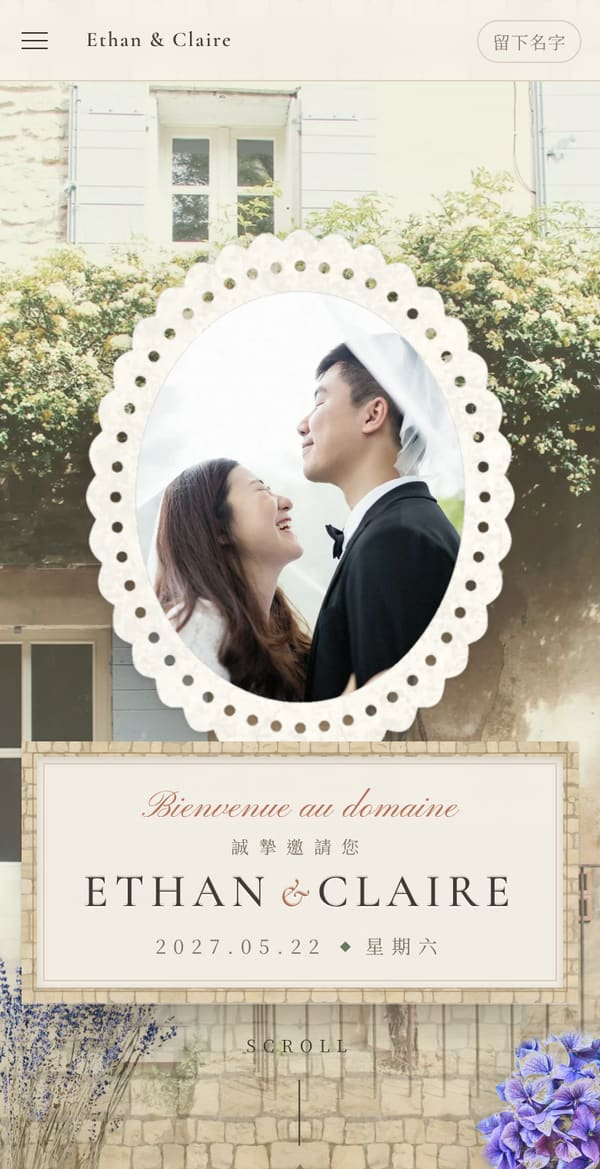
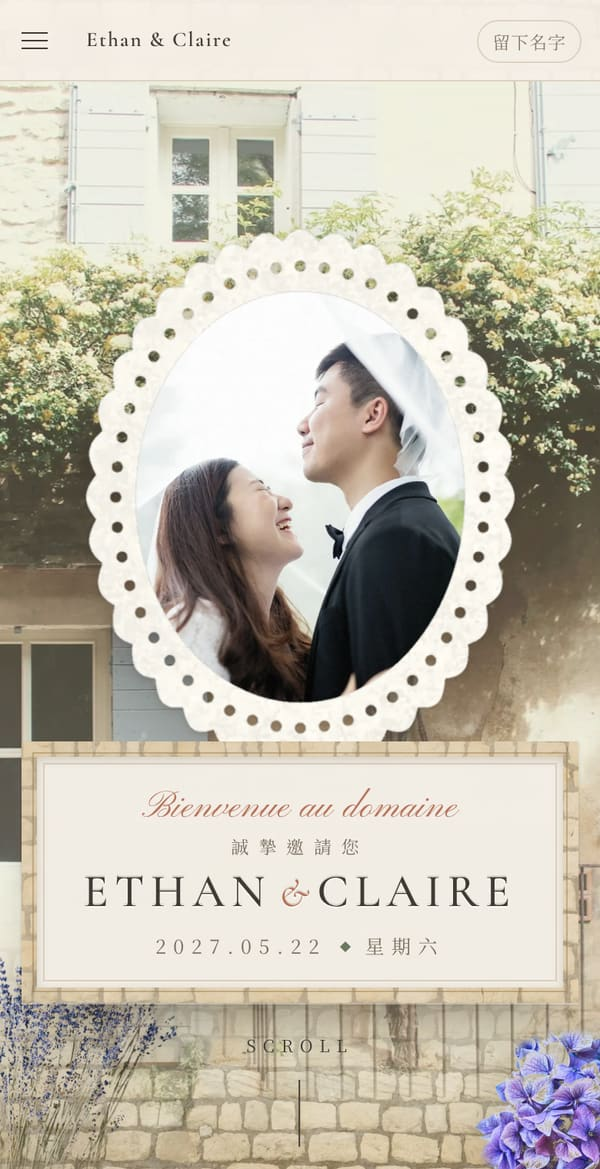
法式莊園：石牆改成沒有對稱接縫的無縫平鋪
鏡射平鋪在桌機上看得到對稱線，改成錯位半張再淡淡混合；
鋪排尺寸跟著調整，石塊大小維持不變。

Claude-Session: https://claude.ai/code/session_01WAMHDvEXzDVD9sEfoDVAdb

diff --git a/public/css/lobby-manor.css b/public/css/lobby-manor.css
@@ -31,9 +31,9 @@ body[data-lobby="french-manor"]{
     linear-gradient(rgba(240,228,204,.55),rgba(240,228,204,.55)) border-box,
     url(../img/manor/wall.webp) 40% 30%/520px auto border-box;
 }
-/* 頁面：一整面蜂蜜色的小石塊砌成的石灰岩牆（真的照片，左右上下鏡射成可以無縫平鋪的一塊），淡淡壓一層溫白 */
-body[data-lobby="french-manor"] .bg-decor{background:#d9c6a2 url(../img/manor/wall.webp) center/1500px auto repeat;}
-@media (max-width:640px){body[data-lobby="french-manor"] .bg-decor{background-size:1000px auto;}}
+/* 頁面：一整面蜂蜜色的小石塊砌成的石灰岩牆（真的照片，錯位半張再淡淡混合，做成可以無縫平鋪的一塊），淡淡壓一層溫白 */
+body[data-lobby="french-manor"] .bg-decor{background:#d9c6a2 url(../img/manor/wall.webp) center/780px auto repeat;}
+@media (max-width:640px){body[data-lobby="french-manor"] .bg-decor{background-size:520px auto;}}
 body[data-lobby="french-manor"] .bg-decor::after{content:'';position:absolute;inset:0;background:rgba(246,240,228,.28);}
 .fm-lobby{position:relative;}
 

diff --git a/README.md b/README.md
@@ -326,7 +326,7 @@ HTML 裡直接寫 `{{couple}}`、`{{date}}`、`{{hashtag}}` 這類 token，
 > | `manor/courtyard.webp` | 大廳 hero 的中庭、開場門後看到的那一片 | [灰藍百葉窗與一棵開花的樹](https://unsplash.com/photos/QAFgjcZz-fI)・Camille La Brequa | 縮圖、稍微調亮、降一點彩度 |
 > | `manor/arch-door.webp` | 「我們的故事」的背景 | [灰泥牆上的石拱門與壁燈](https://unsplash.com/photos/UpfOIuFOelI)・Lea Gindorf | 縮圖 |
 > | `manor/cottage.webp` | 倒數的背景 | [開滿玫瑰、有百葉窗的石屋](https://unsplash.com/photos/qs6RGMBaetQ)・Erwan Hesry | 縮圖、調亮、降一點彩度 |
-> | `manor/wall.webp` | 整頁的底：蜂蜜色的小石塊石灰岩牆、灰泥面板與窗的石框 | [小石塊砌成的石牆](https://unsplash.com/photos/ntNwMS0fWGk)・Angelo Casto | 顏色對齊 mood board 的石牆（每個色板的平均與對比）；縮小後左右上下鏡射成可以無縫平鋪的一塊 |
+> | `manor/wall.webp` | 整頁的底：蜂蜜色的小石塊石灰岩牆、灰泥面板與窗的石框 | [小石塊砌成的石牆](https://unsplash.com/photos/ntNwMS0fWGk)・Angelo Casto | 顏色對齊 mood board 的石牆（每個色板的平均與對比）；錯位半張再淡淡混合，做成可以無縫平鋪的一塊 |
 > | `manor/floor.webp` | 頁尾牆腳的地磚 | [手工赤陶與米白的方磚](https://unsplash.com/photos/Tuh5a17HHrI)・Philippa Lowe | 縮圖 |
 > | `manor/candles.webp` | 「婚禮資訊」的標題 | [白底上的三支黃銅燭台](https://unsplash.com/photos/mwrMvNJYic8)・Noyo creatif | 依彩度去背 |
 > | `manor/chair-bistro.webp` | 「當日流程」的標題 | [披著亞麻巾、放著書的小酒館椅](https://unsplash.com/photos/RNsbwiIy8h4)・Debby Hudson | 依彩度與深淺去背 |
